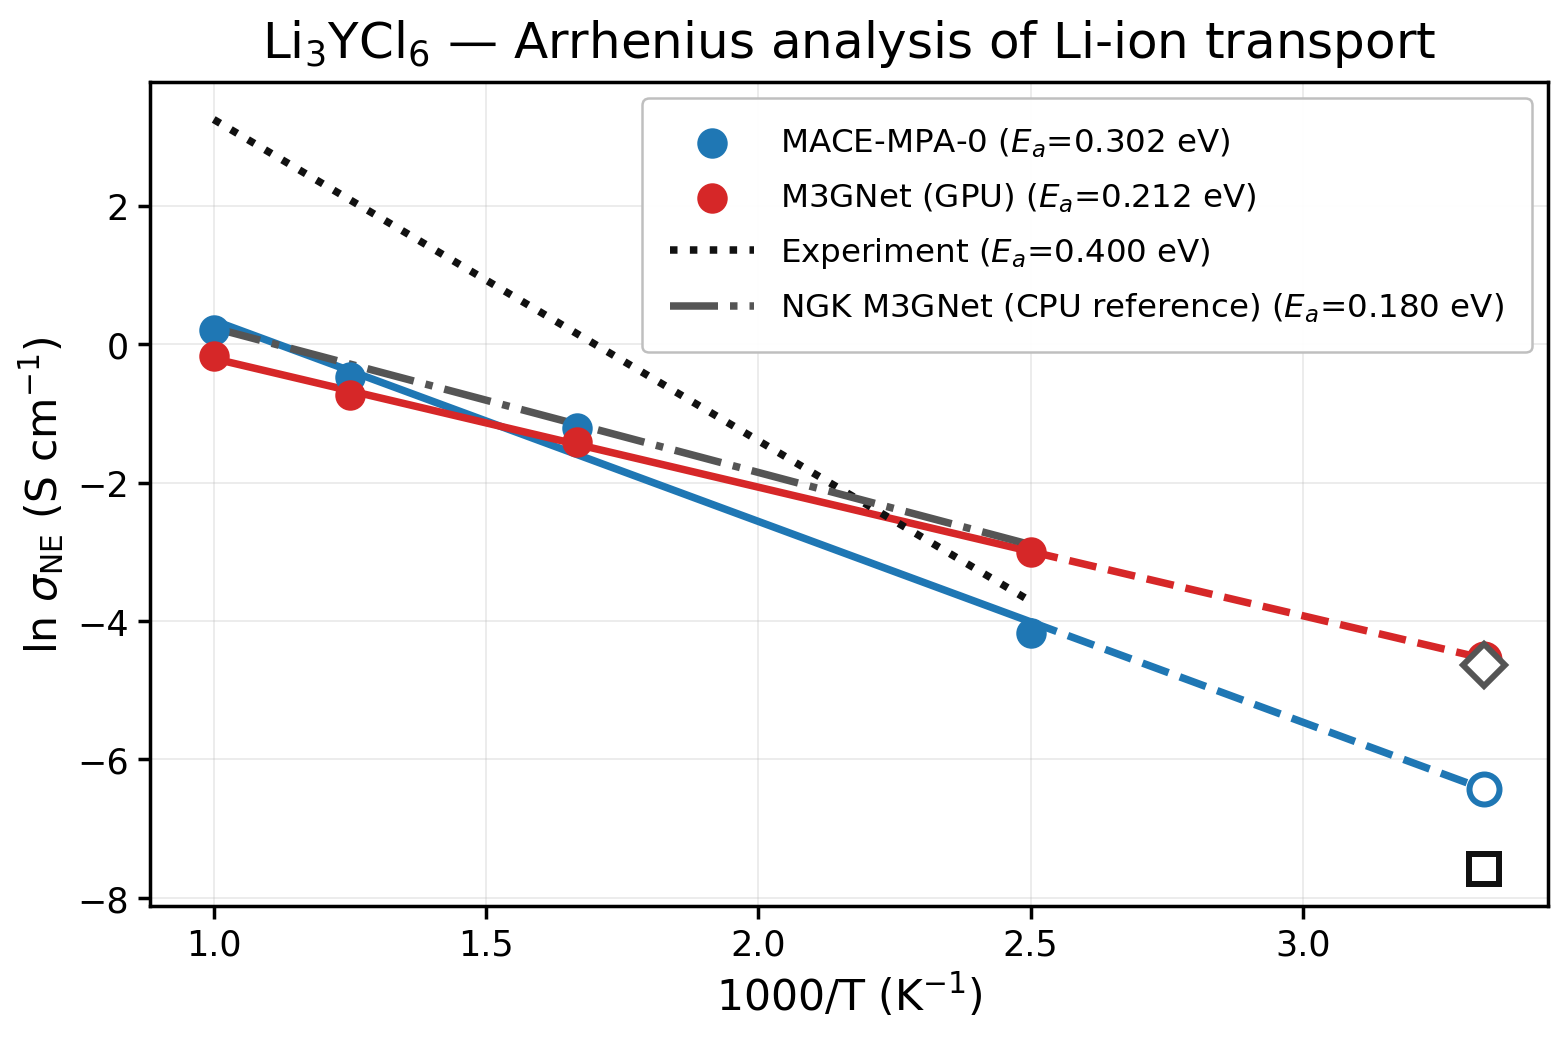
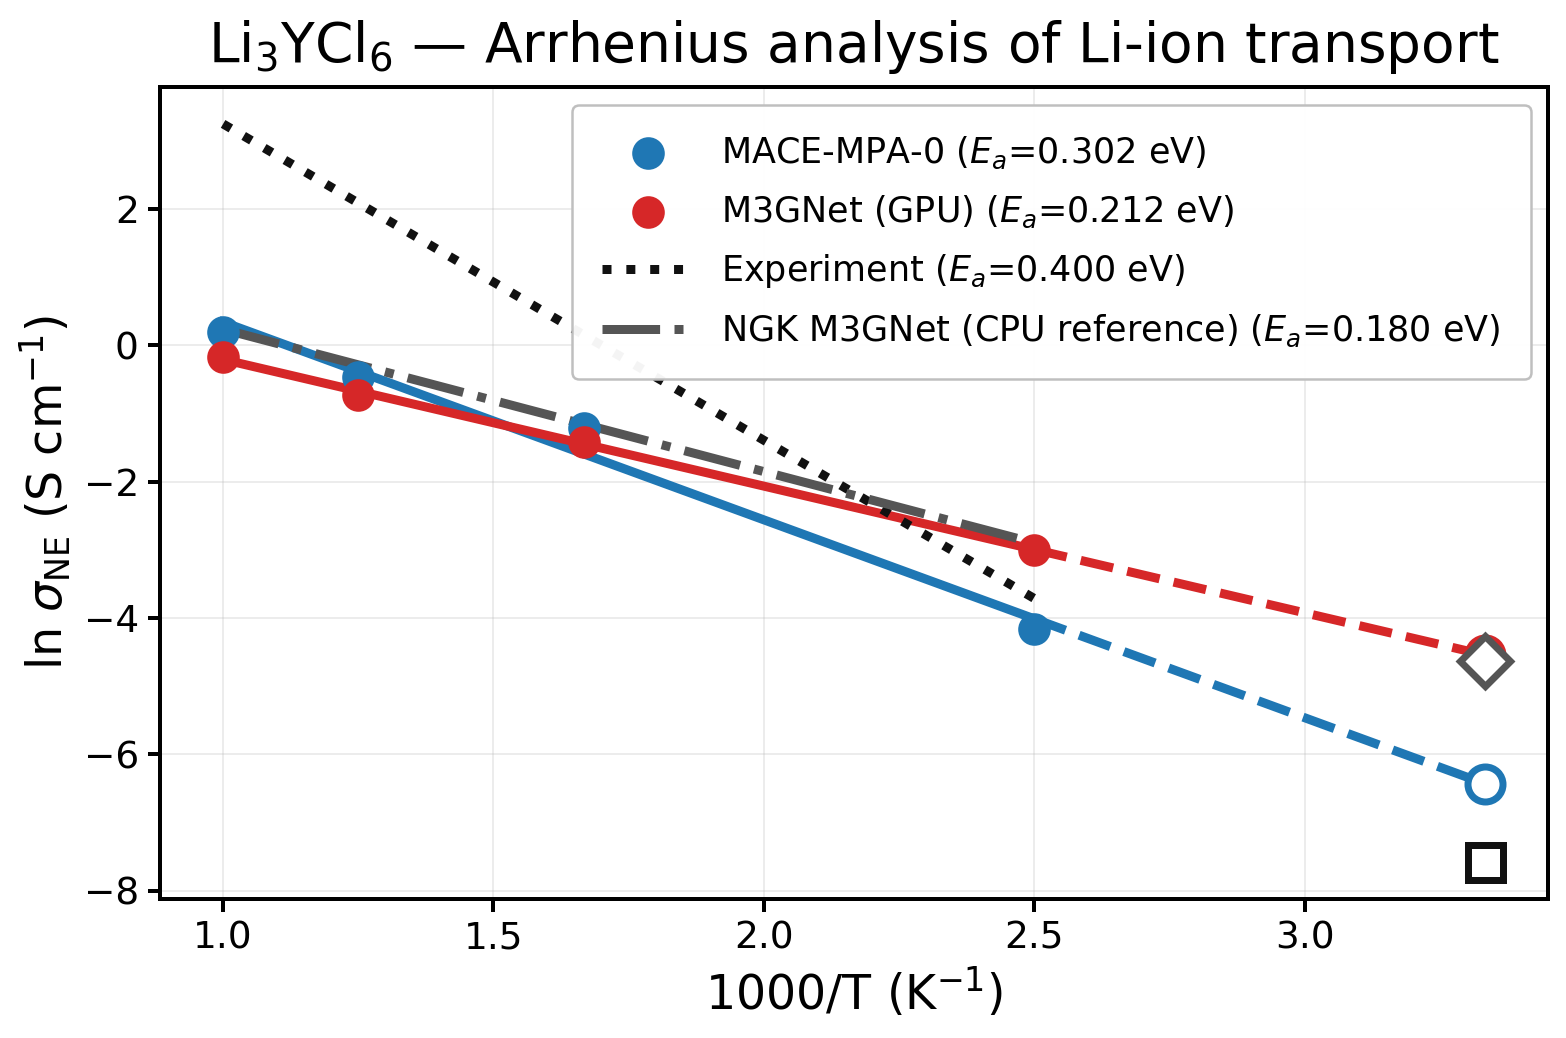
Increase Arrhenius figure readability

diff --git a/src/li_research/analysis/arrhenius/plot_li3ycl6_arrhenius_midterm.py b/src/li_research/analysis/arrhenius/plot_li3ycl6_arrhenius_midterm.py
@@ -22,13 +22,13 @@ for name, sigma, ea, color in models:
     y = np.log(sigma)
     slope, intercept = np.polyfit(x, y, 1)
     xx = np.linspace(x.min(), x.max(), 200)
-    ax.plot(xx, slope * xx + intercept, color=color, lw=3.0)
-    ax.scatter(x, y, color=color, s=125, zorder=3,
+    ax.plot(xx, slope * xx + intercept, color=color, lw=3.6)
+    ax.scatter(x, y, color=color, s=145, zorder=3,
                label=fr"{name} ($E_a$={ea:.3f} eV)")
     x300 = 1000.0 / 300.0
     y300 = slope * x300 + intercept
-    ax.plot([x.max(), x300], [slope * x.max() + intercept, y300], color=color, lw=3.0, ls="--")
-    ax.plot(x300, y300, marker="o", ms=12, mfc="white", mec=color, mew=2.4)
+    ax.plot([x.max(), x300], [slope * x.max() + intercept, y300], color=color, lw=3.6, ls="--")
+    ax.plot(x300, y300, marker="o", ms=14, mfc="white", mec=color, mew=2.8)
 
 references = [
     ("Experiment", 5.1e-4, 0.400, "#111111", "s", ":"),
@@ -38,17 +38,17 @@ xx = np.linspace(1.0, 1000.0 / 300.0, 250)
 for name, sigma300, ea, color, marker, ls in references:
     y300 = np.log(sigma300)
     yline = y300 - (ea / kB) * (xx / 1000.0 - 1.0 / 300.0)
-    ax.plot(xx, yline, color=color, lw=3.0, ls=ls, label=fr"{name} ($E_a$={ea:.3f} eV)")
-    ax.plot(1000.0 / 300.0, y300, marker=marker, ms=12, mfc="white", mec=color, mew=2.4)
+    ax.plot(xx, yline, color=color, lw=3.6, ls=ls, label=fr"{name} ($E_a$={ea:.3f} eV)")
+    ax.plot(1000.0 / 300.0, y300, marker=marker, ms=14, mfc="white", mec=color, mew=2.8)
 
-ax.set_title(r"Li$_3$YCl$_6$ — Arrhenius analysis of Li-ion transport", fontsize=20, pad=10)
-ax.set_xlabel(r"1000/T (K$^{-1}$)", fontsize=17)
-ax.set_ylabel(r"$\ln\,\sigma_{\mathrm{NE}}$ (S cm$^{-1}$)", fontsize=17)
-ax.tick_params(labelsize=14, width=1.4, length=5)
+ax.set_title(r"Li$_3$YCl$_6$ — Arrhenius analysis of Li-ion transport", fontsize=22, pad=10)
+ax.set_xlabel(r"1000/T (K$^{-1}$)", fontsize=19)
+ax.set_ylabel(r"$\ln\,\sigma_{\mathrm{NE}}$ (S cm$^{-1}$)", fontsize=19)
+ax.tick_params(labelsize=15, width=1.6, length=5)
 for spine in ax.spines.values():
-    spine.set_linewidth(1.4)
+    spine.set_linewidth(1.6)
 ax.grid(True, alpha=0.23)
-ax.legend(fontsize=13.0, loc="upper right",
+ax.legend(fontsize=14.0, loc="upper right",
           frameon=True, edgecolor="#bdbdbd", facecolor="white", framealpha=0.96,
           borderpad=0.85, labelspacing=0.65, handlelength=2.6)
 fig.tight_layout()
@@ -62,29 +62,29 @@ for name, sigma, ea, color in (models[0], models[2]):
     y = np.log(sigma)
     slope, intercept = np.polyfit(x, y, 1)
     xx = np.linspace(x.min(), x.max(), 200)
-    ax2.plot(xx, slope * xx + intercept, color=color, lw=3.0)
-    ax2.scatter(x, y, color=color, s=125, zorder=3,
+    ax2.plot(xx, slope * xx + intercept, color=color, lw=3.6)
+    ax2.scatter(x, y, color=color, s=145, zorder=3,
                 label=fr"{name} ($E_a$={ea:.3f} eV)")
     x300 = 1000.0 / 300.0
     y300 = slope * x300 + intercept
     ax2.plot([x.max(), x300], [slope * x.max() + intercept, y300],
-             color=color, lw=3.0, ls="--")
-    ax2.plot(x300, y300, marker="o", ms=12, mfc="white", mec=color, mew=2.4)
+             color=color, lw=3.6, ls="--")
+    ax2.plot(x300, y300, marker="o", ms=14, mfc="white", mec=color, mew=2.8)
 for name, sigma300, ea, color, marker, ls in references:
     y300 = np.log(sigma300)
     yline = y300 - (ea / kB) * (xx / 1000.0 - 1.0 / 300.0)
-    ax2.plot(xx, yline, color=color, lw=3.0, ls=ls,
+    ax2.plot(xx, yline, color=color, lw=3.6, ls=ls,
              label=fr"{name} ($E_a$={ea:.3f} eV)")
-    ax2.plot(1000.0 / 300.0, y300, marker=marker, ms=12,
-             mfc="white", mec=color, mew=2.4)
-ax2.set_title(r"Li$_3$YCl$_6$ — Arrhenius analysis of Li-ion transport", fontsize=20, pad=10)
-ax2.set_xlabel(r"1000/T (K$^{-1}$)", fontsize=17)
-ax2.set_ylabel(r"$\ln\,\sigma_{\mathrm{NE}}$ (S cm$^{-1}$)", fontsize=17)
-ax2.tick_params(labelsize=14, width=1.4, length=5)
+    ax2.plot(1000.0 / 300.0, y300, marker=marker, ms=14,
+             mfc="white", mec=color, mew=2.8)
+ax2.set_title(r"Li$_3$YCl$_6$ — Arrhenius analysis of Li-ion transport", fontsize=22, pad=10)
+ax2.set_xlabel(r"1000/T (K$^{-1}$)", fontsize=19)
+ax2.set_ylabel(r"$\ln\,\sigma_{\mathrm{NE}}$ (S cm$^{-1}$)", fontsize=19)
+ax2.tick_params(labelsize=15, width=1.6, length=5)
 for spine in ax2.spines.values():
-    spine.set_linewidth(1.4)
+    spine.set_linewidth(1.6)
 ax2.grid(True, alpha=0.23)
-ax2.legend(fontsize=13.0, loc="upper right", frameon=True,
+ax2.legend(fontsize=14.0, loc="upper right", frameon=True,
            edgecolor="#bdbdbd", facecolor="white", framealpha=0.96,
            borderpad=0.85, labelspacing=0.65, handlelength=2.6)
 fig2.tight_layout()
